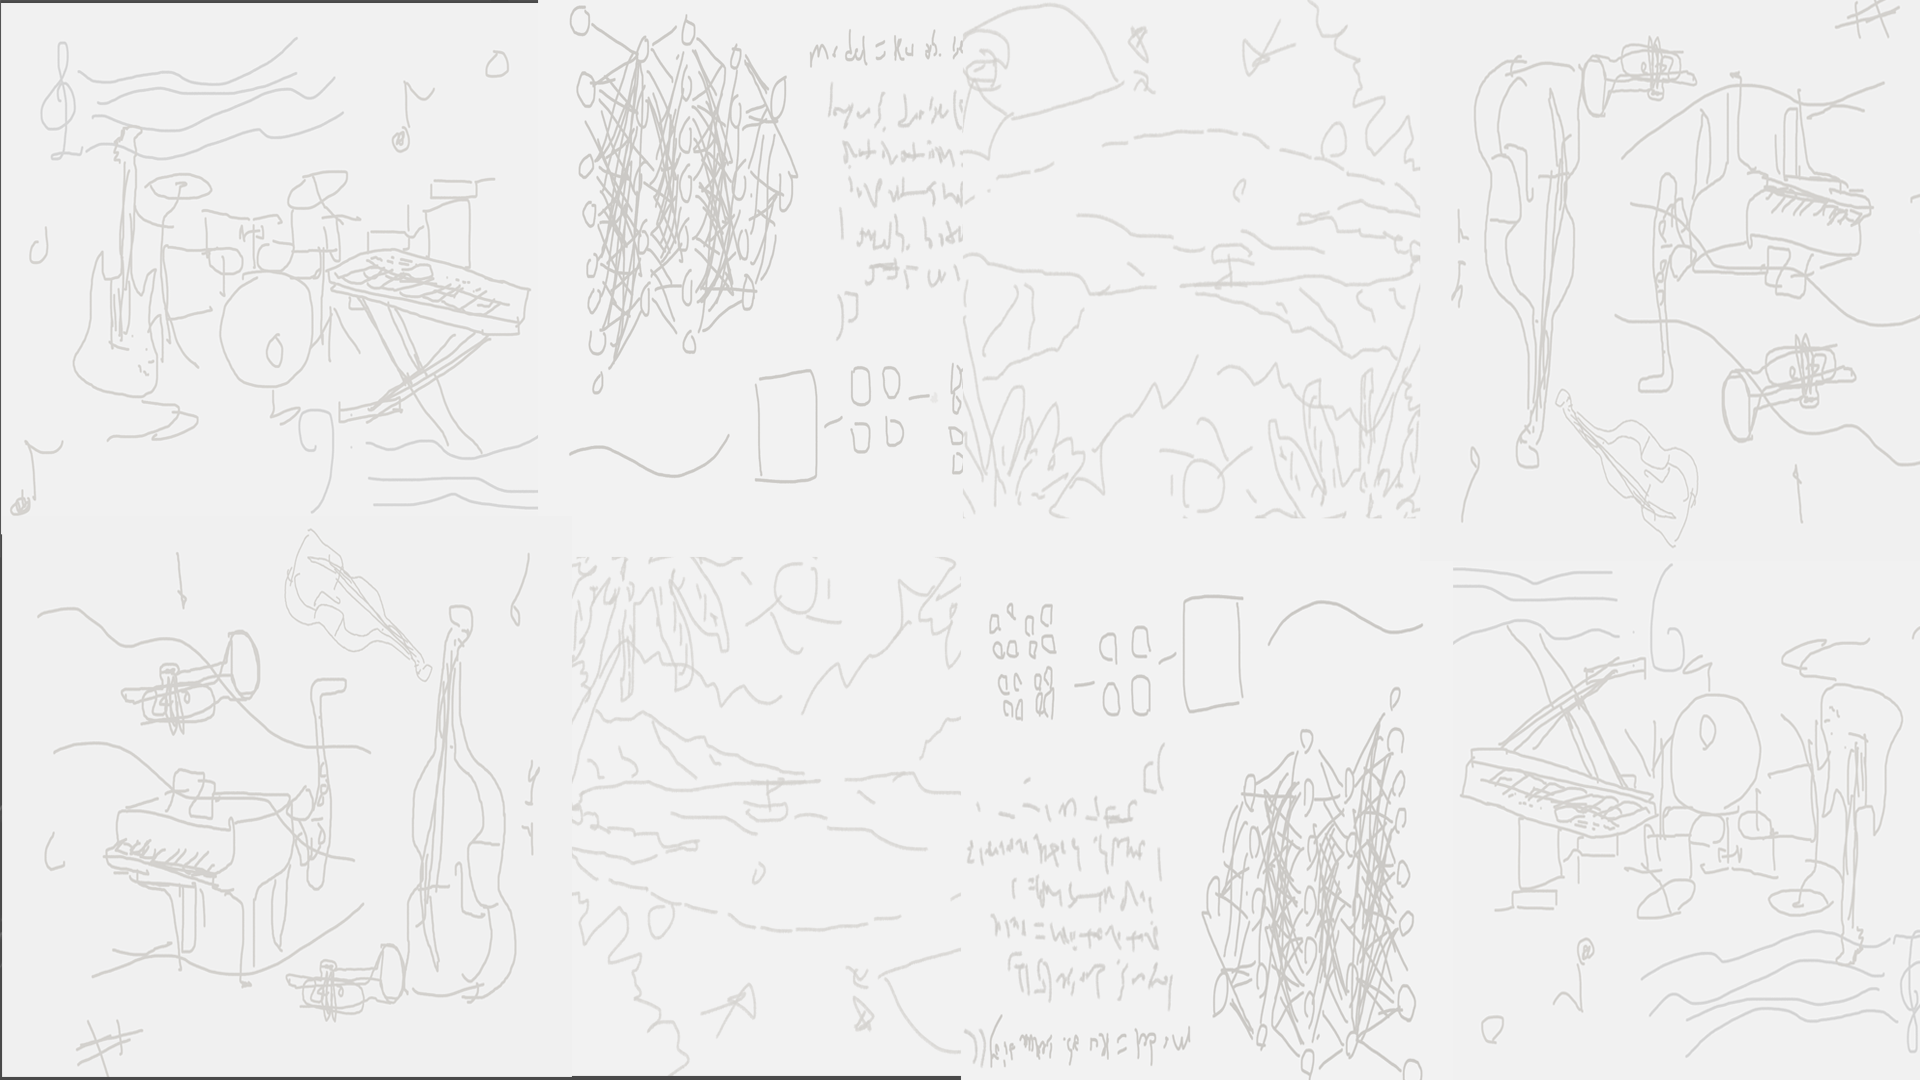
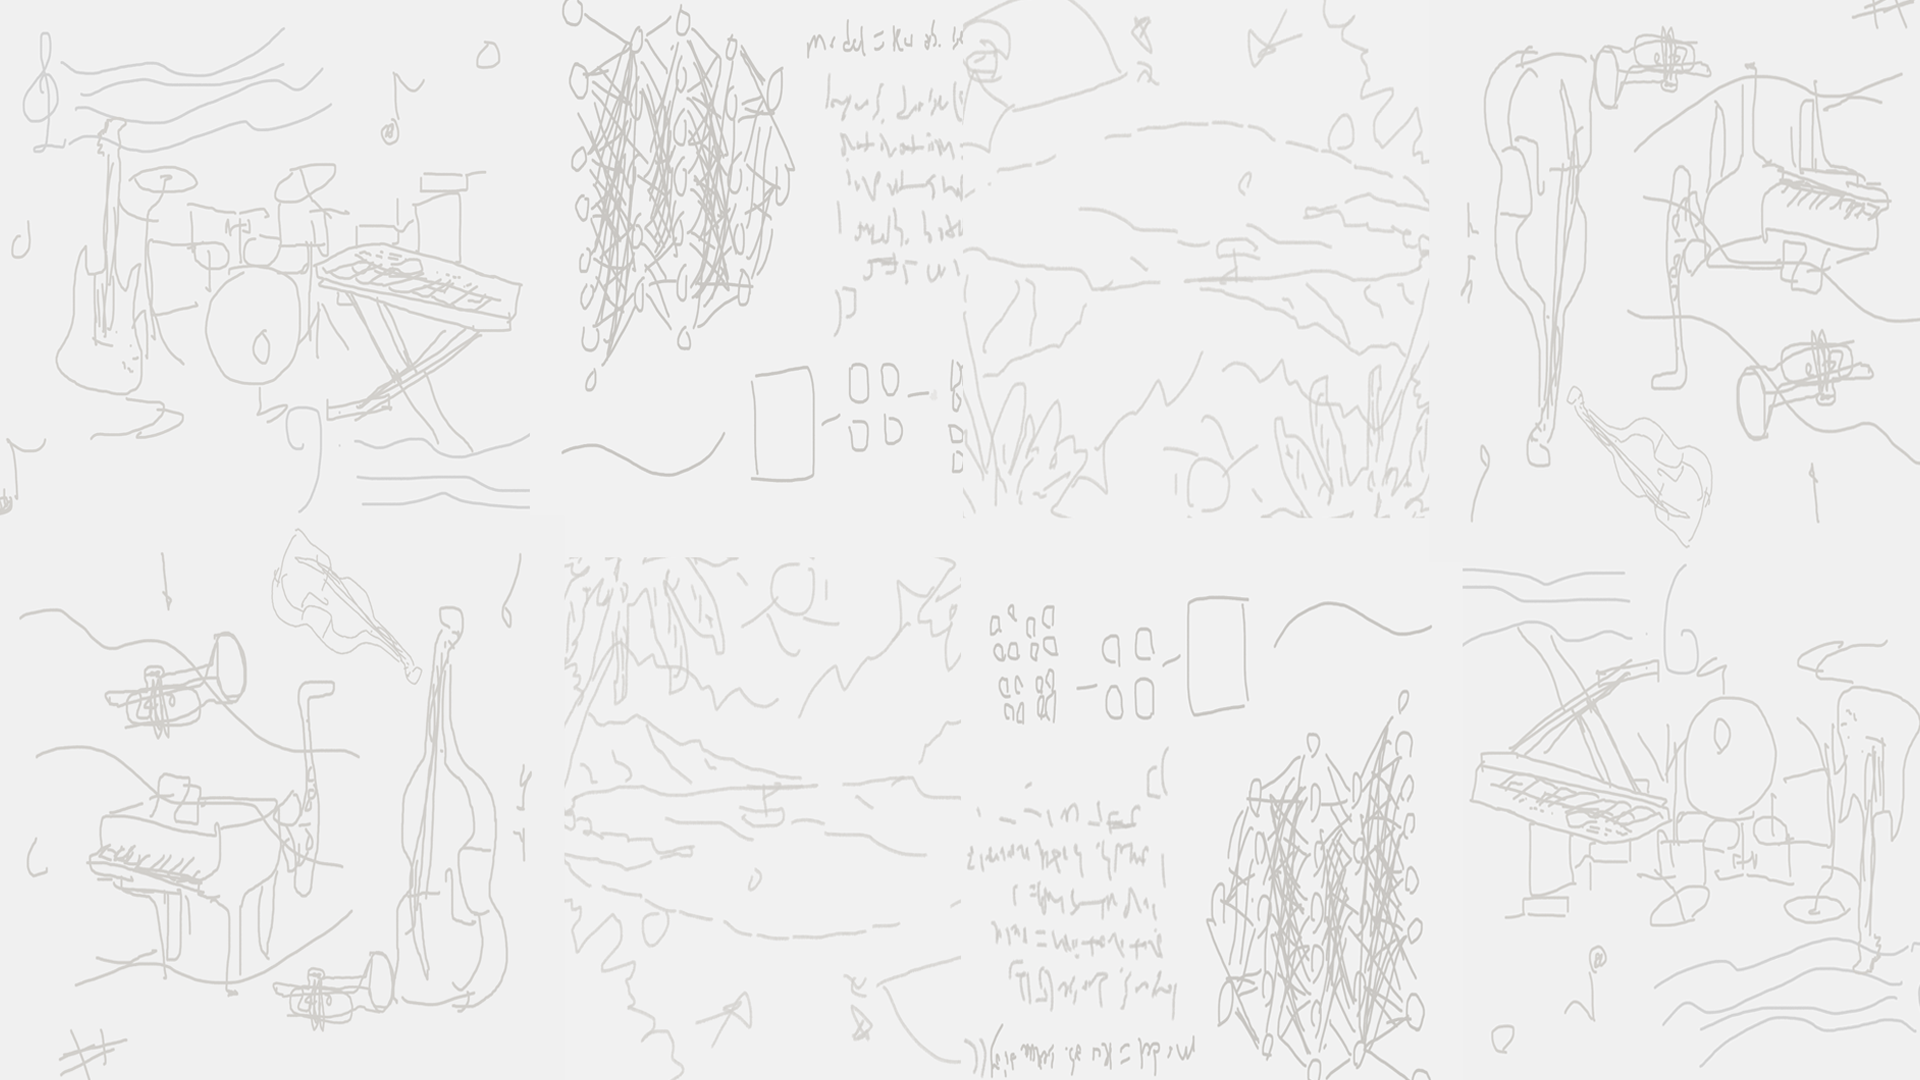
minor bug fixes + finished news and music pages

diff --git a/music.html b/music.html
@@ -29,45 +29,139 @@
 </section>
 
 <section class="container">
-
-  <div class="item">
-    <div class="date">[date]</div>
-    <div class="headline">
-      headline
+  <div class = "container-popup">
+    <div id = "sort-popup">
+      <div class = "popup" id = "sort" style = "max-width:30vw;position:absolute;"
+      onpointerdown="
+          const sort_content = document.getElementById('sort');
+          offsetX = event.clientX - sort_content.offsetLeft;
+          offsetY = event.clientY - sort_content.offsetTop;
+          dragging = true;
+          draggedElement = sort_content;
+      ">
+          <div style = "margin-left: 5px; margin-right: 5px;">
+              <p style = "padding-left: 10px; padding-right: 30px;" ><b>SORT</b><button onclick = "closePopup('sort')" style = "right:5px; position:absolute; top:5px">X</button></p>
+              <div style = "position:relative; top:5%; text-align:center; align-items:center" class = "popup-content">
+                  <div style = "background-color:black; border-radius: 10px;" id = "select-wrapper">
+                  <select class="sortDropdown" onchange="sortPage()">
+                      <option value="recent">Recent</option>
+                      <option value="name">Name (A-Z)</option>
+                      <option value="best">Best</option>
+                  </select>
+                  </div>
+              </div>
+          </div>
+        </div>
     </div>
-    <a href="#" class="view-more">VIEW MORE</a>
+    <br>
+    <div style = "padding: 30px 0; border-bottom: 1px solid #ccc;"></div>
   </div>
 
-  <div class="item">
-    <div class="date">[date]</div>
-    <div class="headline">
-      headline
+
+  <div class = "container-items">
+    <div class="item" data-dylan_ranking = "4">
+      <div class="date">[September 11, 2024]</div>
+      <div class="headline">
+        ChaNaXinTiao
+      </div>
+      <div class = "video-container">
+              <iframe width="100%" height="315" src="https://www.youtube.com/embed/1tFC5PgqRAA?si=PMfE3lLhUgeRrRgL" title="YouTube video player" frameborder="0" allow="accelerometer; autoplay; clipboard-write; encrypted-media; gyroscope; picture-in-picture; web-share" referrerpolicy="strict-origin-when-cross-origin" allowfullscreen></iframe>
+      </div>
     </div>
-    <a href="#" class="view-more">VIEW MORE</a>
+    <div class="item" data-dylan_ranking = "1">
+      <div class="date">[November 22, 2023]</div>
+      <div class="headline">
+        Destroyers
+      </div>
+      <div class = "video-container">
+              <iframe width="100%" height="315" src="https://www.youtube.com/embed/yaj0bVfBuGs?si=PgZYMQKySsDR2f1E" title="YouTube video player" frameborder="0" allow="accelerometer; autoplay; clipboard-write; encrypted-media; gyroscope; picture-in-picture; web-share" referrerpolicy="strict-origin-when-cross-origin" allowfullscreen></iframe>
+      </div>
+    </div>
+    <div class="item" data-dylan_ranking = "6">
+      <div class="date">[August 7, 2023]</div>
+      <div class="headline">
+        Pathway To Paradise
+      </div>
+      <div class = "video-container">
+              <iframe width="100%" height="315" src="https://www.youtube.com/embed/Nbfi48uEq3w?si=gqdlPDrf8x1gFrCk" title="YouTube video player" frameborder="0" allow="accelerometer; autoplay; clipboard-write; encrypted-media; gyroscope; picture-in-picture; web-share" referrerpolicy="strict-origin-when-cross-origin" allowfullscreen></iframe>
+      </div>
+    </div>
+    <div class="item" data-dylan_ranking = "9">
+      <div class="date">[March 24, 2023]</div>
+      <div class="headline">
+        Murmur
+      </div>
+      <div class = "video-container">
+              <iframe width="100%" height="315" src="https://www.youtube.com/embed/HwZp70tdBL8?si=JEmQr3Lkhnjxn_Sg" title="YouTube video player" frameborder="0" allow="accelerometer; autoplay; clipboard-write; encrypted-media; gyroscope; picture-in-picture; web-share" referrerpolicy="strict-origin-when-cross-origin" allowfullscreen></iframe>
+      </div>
+    </div>
+     <div class="item" data-dylan_ranking = "3">
+      <div class="date">[September 28, 2022]</div>
+      <div class="headline">
+        An Adventure Admist The Skies
+      </div>
+      <div class = "video-container">
+              <iframe width="100%" height="315" src="https://www.youtube.com/embed/-bobyBZjdLk?si=36kTTn-3f9tab-kUQ" title="YouTube video player" frameborder="0" allow="accelerometer; autoplay; clipboard-write; encrypted-media; gyroscope; picture-in-picture; web-share" referrerpolicy="strict-origin-when-cross-origin" allowfullscreen></iframe>
+      </div>
+    </div>
+    <div class="item" data-dylan_ranking = "5">
+      <div class="date">[June 15, 2022]</div>
+      <div class="headline">
+        A Forest Festival
+      </div>
+      <div class = "video-container">
+              <iframe width="100%" height="315" src="https://www.youtube.com/embed/OJFC8UL58yg?si=3_X0YaS4aIBmOqFQ" title="YouTube video player" frameborder="0" allow="accelerometer; autoplay; clipboard-write; encrypted-media; gyroscope; picture-in-picture; web-share" referrerpolicy="strict-origin-when-cross-origin" allowfullscreen></iframe>
+      </div>
+    </div>
+    <div class="item" data-dylan_ranking = "8">
+      <div class="date">[April 24, 2022]</div>
+      <div class="headline">
+        Set Sail
+      </div>
+      <div class = "video-container">
+              <iframe width="100%" height="315" src="https://www.youtube.com/embed/n21Yu8SmqCY?si=mmECW6_w5G6h6_k4" title="YouTube video player" frameborder="0" allow="accelerometer; autoplay; clipboard-write; encrypted-media; gyroscope; picture-in-picture; web-share" referrerpolicy="strict-origin-when-cross-origin" allowfullscreen></iframe>
+      </div>
+    </div>
+    <div class="item" data-dylan_ranking = "6">
+      <div class="date">[April 3, 2022]</div>
+      <div class="headline">
+        An Empty Town
+      </div>
+      <div class = "video-container">
+              <iframe width="100%" height="315" src="https://www.youtube.com/embed/QRIdBllddNo?si=TzsHb1u7aqTuI8XS" title="YouTube video player" frameborder="0" allow="accelerometer; autoplay; clipboard-write; encrypted-media; gyroscope; picture-in-picture; web-share" referrerpolicy="strict-origin-when-cross-origin" allowfullscreen></iframe>
+      </div>
+    </div>
+
+    <div class="item" data-dylan_ranking = "7">
+      <div class="date">[March 19, 2022]</div>
+      <div class="headline">
+        Showdown in The Sands
+      </div>
+      <div class = "video-container">
+              <iframe width="100%" height="315" src="https://www.youtube.com/embed/qPpvBHnzegk?si=W5mnLFKy2-jXnCrm" title="YouTube video player" frameborder="0" allow="accelerometer; autoplay; clipboard-write; encrypted-media; gyroscope; picture-in-picture; web-share" referrerpolicy="strict-origin-when-cross-origin" allowfullscreen></iframe>
+      </div>
+    </div>
+
+    <div class="item" data-dylan_ranking = "2">
+      <div class="date">[March 5, 2022]</div>
+      <div class="headline">
+        There Is No Sunset
+      </div>
+      <div class = "video-container">
+              <iframe width="100%" height="315" src="https://www.youtube.com/embed/TYonS5Tydpk?si=F6fuZl6f_A9LhQiT" title="YouTube video player" frameborder="0" allow="accelerometer; autoplay; clipboard-write; encrypted-media; gyroscope; picture-in-picture; web-share" referrerpolicy="strict-origin-when-cross-origin" allowfullscreen></iframe>
+      </div>
+    </div>
   </div>
-
-  <div class="item">
-    <div class="date">[date]</div>
-    <div class="headline">
-      headline
-    </div>
-    <div>
-            <iframe width="560" height="315" src="https://www.youtube.com/embed/TYonS5Tydpk?si=F6fuZl6f_A9LhQiT" title="YouTube video player" frameborder="0" allow="accelerometer; autoplay; clipboard-write; encrypted-media; gyroscope; picture-in-picture; web-share" referrerpolicy="strict-origin-when-cross-origin" allowfullscreen></iframe>
-    </div>
-
-  </div>
-
-
 </section>
 <div id ="popups">
   <div id = "nav-popup">
-    <div class = "popup" id = "nav" style = "left: 2%; top: 5%; max-width:30vw;"
+    <div class = "popup" id = "nav" style = "left: 2%; top: 5%; max-width:30vw; position:fixed;"
     onpointerdown="
-        const content = document.getElementById('nav');
-        offsetX = event.clientX - content.offsetLeft;
-        offsetY = event.clientY - content.offsetTop;
+        const nav_content = document.getElementById('nav');
+        offsetX = event.clientX - nav_content.offsetLeft;
+        offsetY = event.clientY - nav_content.offsetTop;
         dragging = true;
-        draggedElement = content;
+        draggedElement = nav_content;
     ">
         <div style = "margin-left: 5px; margin-right: 5px;">
             <p style = "padding-left: 10px; padding-right: 30px;" ><b>Menu</b><button onclick = "closePopup('nav')" style = "right:5px; position:absolute; top:5px">X</button></p>
@@ -100,3 +194,4 @@
 </body>
 </html>
 <script src ="scripts/popup.js"></script>
+<script src ="scripts/index.js"></script>

diff --git a/news.html b/news.html
@@ -29,42 +29,72 @@
 </section>
 
 <section class="container">
-
-  <div class="item">
-    <div class="date">[date]</div>
-    <div class="headline">
-      headline
+  <div class = "container-popup">
+    <div id = "sort-popup">
+      <div class = "popup" id = "sort" style = "max-width:30vw;position:absolute;"
+      onpointerdown="
+          const sort_content = document.getElementById('sort');
+          offsetX = event.clientX - sort_content.offsetLeft;
+          offsetY = event.clientY - sort_content.offsetTop;
+          dragging = true;
+          draggedElement = sort_content;
+      ">
+          <div style = "margin-left: 5px; margin-right: 5px;">
+              <p style = "padding-left: 10px; padding-right: 30px;" ><b>SORT</b><button onclick = "closePopup('sort')" style = "right:5px; position:absolute; top:5px">X</button></p>
+              <div style = "position:relative; top:5%; text-align:center; align-items:center" class = "popup-content">
+                  <div style = "background-color:black; border-radius: 10px;" id = "select-wrapper">
+                  <select class="sortDropdown" onchange="sortPage()">
+                      <option value="recent">Recent</option>
+                      <option value="name">Name (A-Z)</option>
+                      <option value="best">Best</option>
+                  </select>
+                  </div>
+              </div>
+          </div>
+        </div>
     </div>
-    <a href="#" class="view-more">VIEW MORE</a>
+    <br>
+    <div style = "padding: 30px 0; border-bottom: 1px solid #ccc;"></div>
   </div>
 
-  <div class="item">
-    <div class="date">[date]</div>
-    <div class="headline">
-      headline
+
+  <div class = "container-items">
+    <div class="item" data-dylan_ranking="1">
+  <div class="date">[March 6, 2026]</div>
+
+  <div class="headline">
+    JAYSON TATUM IS BACK
+
+    <div class="video-container">
+      <div class="tenor-gif-embed" data-postid="303655201590180371" data-share-method="host" data-aspect-ratio="1.77778" data-width="100%"><a href="https://tenor.com/view/jayson-tatum-i-see-how-it-is-wowww-okay-nods-gif-303655201590180371">Jayson Tatum I See How It Is GIF</a>from<a href="https://tenor.com/search/jayson+tatum-gifs">Jayson Tatum GIFs</a></div><script async src="https://tenor.com/embed.js"></script>
     </div>
-    <a href="#" class="view-more">VIEW MORE</a>
+    <p class="subtext">HHHHUUUUUUGGGGGGEEEEEEEEEEEE</p>
   </div>
+  <a href="https://www.espn.com/nba/game/_/gameId/401810763/mavericks-celtics" class="view-more">VIEW MORE</a>
+</div>
 
-  <div class="item">
-    <div class="date">[date]</div>
-    <div class="headline">
-      headline
+    <div class="item" data-dylan_ranking = "2">
+      <div class="date">[March 6, 2026]</div>
+        <div class="headline">
+          Initial deployment of dylanliu.net!!!
+          <p class="subtext">
+            check back here for updates
+          </p>
+        </div>
+        <a href="../index.html" class="view-more">VIEW MORE</a>
+      </div>
     </div>
-    <a href="#" class="view-more">VIEW MORE</a>
   </div>
-
-
 </section>
 <div id ="popups">
   <div id = "nav-popup">
-    <div class = "popup" id = "nav" style = "left: 2%; top: 5%; max-width:30vw;"
+    <div class = "popup" id = "nav" style = "left: 2%; top: 5%; max-width:30vw; position:fixed;"
     onpointerdown="
-        const content = document.getElementById('nav');
-        offsetX = event.clientX - content.offsetLeft;
-        offsetY = event.clientY - content.offsetTop;
+        const nav_content = document.getElementById('nav');
+        offsetX = event.clientX - nav_content.offsetLeft;
+        offsetY = event.clientY - nav_content.offsetTop;
         dragging = true;
-        draggedElement = content;
+        draggedElement = nav_content;
     ">
         <div style = "margin-left: 5px; margin-right: 5px;">
             <p style = "padding-left: 10px; padding-right: 30px;" ><b>Menu</b><button onclick = "closePopup('nav')" style = "right:5px; position:absolute; top:5px">X</button></p>
@@ -97,3 +127,4 @@
 </body>
 </html>
 <script src ="scripts/popup.js"></script>
+<script src ="scripts/index.js"></script>

diff --git a/stylesheets/style.css b/stylesheets/style.css
@@ -67,7 +67,7 @@ body {
 }
 
 .headline {
-  font-size: 18px;
+  font-size: 22px;
   font-weight: 600;
   margin-bottom: 18px;
 }
@@ -88,12 +88,12 @@ body {
 }
 
 .popup{
-    position:fixed;
     background-color: darkgray;
     transition: transform 0.3s ease-in-out;
     border-radius: 10px;
     cursor:move;
     touch-action: none;
+    padding-bottom: 5px;
 }
 
 .popup p{
@@ -148,3 +148,46 @@ ul{
   color: white;
 }
 
+.video-container {
+  border-radius: 10px;
+  background-color: #000;
+  text-align: center;
+  padding: 5%
+}
+
+.sortDropdown{
+  padding: 10px;
+  border-radius: 6px;
+  border: 1px solid #ccc;
+  font-size: 16px;
+  background-color: black;
+  cursor: pointer;
+  color:white;
+  font-family: "Pixelify Sans", sans-serif;
+  border-color: black;
+  width: 100%;
+  &:focus {
+    outline: none;
+    box-shadow: none;
+  }
+}
+
+select {
+  appearance: none;
+  -webkit-appearance: none;
+  -moz-appearance: none;
+}
+#select-wrapper::after {
+  content: "v"; /* or any character/emoji */
+  font-family: "Pixelify Sans", sans-serif;
+  position: absolute;
+  right: 12px;
+  top: 50%;
+  transform: translateY(-50%);
+  color: #ccc;
+  pointer-events: none; /* lets clicks pass through to the select */
+}
+.subtext{
+  font-size: 16px;
+  color: #555;
+}

diff --git a/scripts/index.js b/scripts/index.js
@@ -1,0 +1,22 @@
+function sortPage(){
+    const sortBy = document.getElementsByClassName("sortDropdown")[0].value;
+    const content = document.getElementsByClassName("container-items")[0]
+    const items = Array.from(content.querySelectorAll(".item"));
+    if(sortBy === "name"){
+        items.sort((a, b)=>{
+            return a.querySelector(".headline").innerHTML.localeCompare(b.querySelector(".headline").innerHTML);
+        })
+    } else if(sortBy === "recent"){
+        items.sort((a, b)=>{
+            return new Date(b.querySelector(".date").innerHTML.slice(1, -1)) - new Date(a.querySelector(".date").innerHTML.slice(1, -1));
+        })
+    }  else if(sortBy === "best"){
+        items.sort((a, b)=>{
+            return parseInt(a.dataset.dylan_ranking) - parseInt(b.dataset.dylan_ranking);
+        })
+    }
+    content.innerHTML = "";
+    for(const i of items){
+        content.appendChild(i);
+    }
+}

diff --git a/stylesheets/top.css b/stylesheets/top.css
@@ -45,6 +45,11 @@ a {
 .sociallink{
     width:50px;
     padding: 5px;
+    &:hover{
+        transform: scale(1.1); 
+    }
+    transition: 
+      transform 0.2s ease,
 }
 
 .popup{